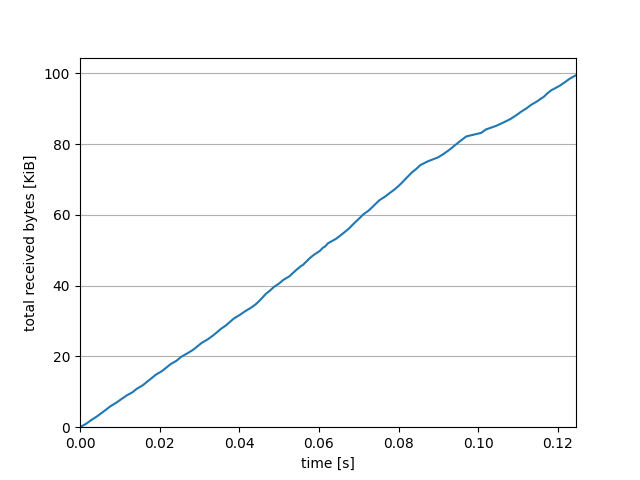
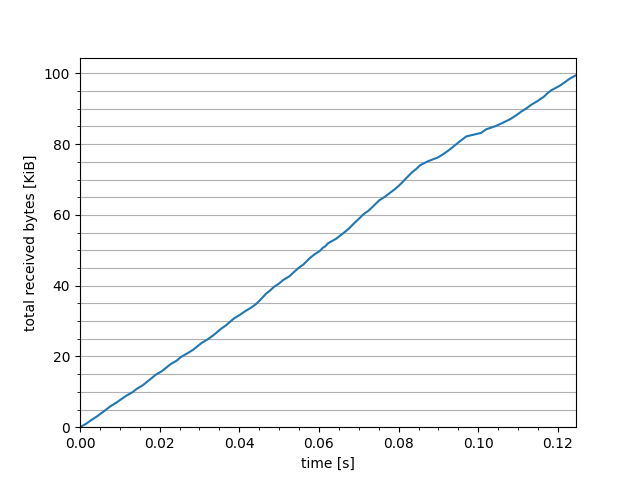
make minor ticks visible

diff --git a/DataOutput.py b/DataOutput.py
@@ -110,6 +110,7 @@ class DataOutput:
                 
                 plt.grid(True, 'both', 'y')
                 plt.xlabel("time [s]")
+                plt.minorticks_on()
                 
                 if l == "bytes_recv" or l == "bytes_sent":
                     # get the unit of the maximum value and use it for all values
@@ -137,6 +138,7 @@ class DataOutput:
                     
                     plt.xlim([0, max(time_stamps)])
                     plt.ylim([0, 100])
+                    plt.yticks(ticks=range(0, 101, 10))
                     
                     plt.plot(time_stamps, self.lists[l])
                 elif l == "pps_recv" or l == "pps_sent":
@@ -144,6 +146,10 @@ class DataOutput:
                         plt.ylabel("received packets per second")
                     else:
                         plt.ylabel("sent packets per second")
+                        
+                    plt.xlim([0, max(time_stamps)])
+                    plt.ylim([0, max(self.lists[l]) + 0.05 * max(self.lists[l])])
+                    
                     plt.plot(time_stamps, self.lists[l])
                 else:
                     plt.plot(time_stamps, self.lists[l])
